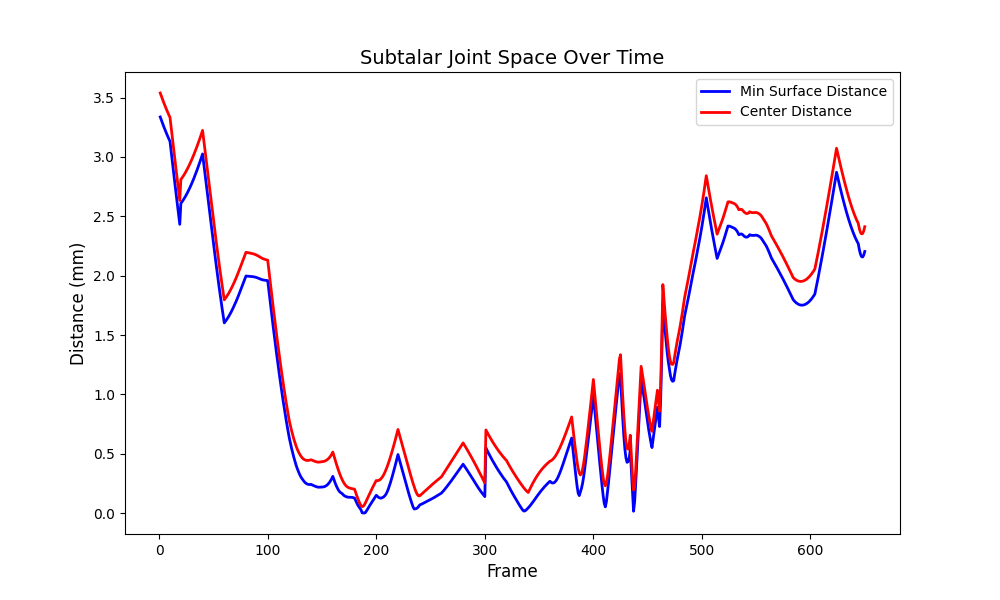
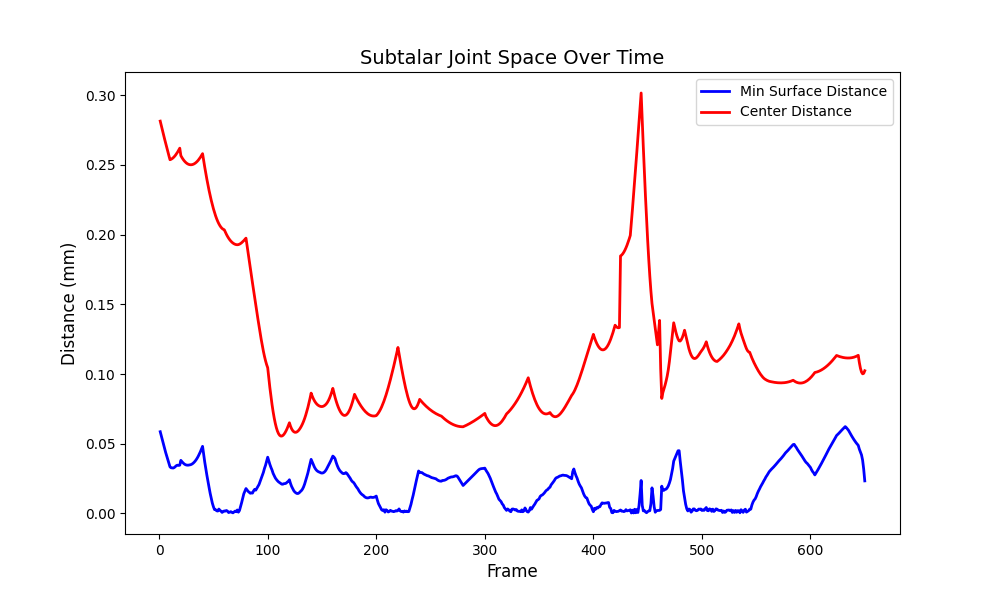
1/10 scale after loading

diff --git a/measure.py b/measure.py
@@ -21,6 +21,9 @@ def load_vertices(file_path):
 astr_vertices = load_vertices('data/astr_EF.obj')
 calc_vertices = load_vertices('data/calc_EF.obj')
 
+astr_vertices = astr_vertices * 0.1
+calc_vertices = calc_vertices * 0.1
+
 print(f"Astragalus Facet Vertices: {astr_vertices.shape}")
 print(f"Calcaneus Facet Vertices: {calc_vertices.shape}")
 
@@ -68,22 +71,20 @@ for frame in range(frame_count):
     astr_vertices_in_contact = len(astr_indices_in_contact)
     astr_contact_pct = (astr_vertices_in_contact / len(astr_real_vertices)) * 100
 
-    # center of contact
-    if astr_vertices_in_contact > 0:
-        coc = np.mean(astr_real_vertices[astr_indices_in_contact], axis=0)
-    else:
-        coc = (np.nan, np.nan, np.nan)
+    # reduce vertices to 50 to represent surface, then turn minimum distances into heatmap
 
-    distances.append({'frame': frame + 1, 'min_distance': min_distance, 'center_distance': center_distance, 'contact_percentage' : astr_contact_pct, 
-                      "center_of_contact_x": coc[0], "center_of_contact_y": coc[1], "center_of_contact_z": coc[2]})
+    # center of contact
+    # if astr_vertices_in_contact > 0:
+    #     coc = np.mean(astr_real_vertices[astr_indices_in_contact], axis=0)
+    # else:
+    #     coc = (np.nan, np.nan, np.nan)
+
+    distances.append({'frame': frame + 1, 'min_distance': min_distance, 'center_distance': center_distance, 'contact_percentage' : astr_contact_pct})
 
 distances_dataframe = pd.DataFrame(distances)
-scaling_factor = 3.5 / 52.0
-distances_dataframe['min_distance'] = distances_dataframe['min_distance'] * scaling_factor
-distances_dataframe['center_distance'] = distances_dataframe['center_distance'] * scaling_factor
-distances_dataframe['center_of_contact_x'] = distances_dataframe['center_of_contact_x'] * scaling_factor
-distances_dataframe['center_of_contact_y'] = distances_dataframe['center_of_contact_y'] * scaling_factor
-distances_dataframe['center_of_contact_z'] = distances_dataframe['center_of_contact_z'] * scaling_factor
+# scaling_factor = 3.5 / 52.0
+# distances_dataframe['min_distance'] = distances_dataframe['min_distance'] * scaling_factor
+# distances_dataframe['center_distance'] = distances_dataframe['center_distance'] * scaling_factor
 print(distances_dataframe)
 
 plt.figure(figsize=(10, 6))
@@ -98,19 +99,19 @@ plt.show()
 plt.figure(figsize=(10, 6))
 plt.fill_between(distances_dataframe['frame'], distances_dataframe['contact_percentage'], color='blue', alpha=0.2)
 plt.plot(distances_dataframe['frame'], distances_dataframe['contact_percentage'], label='Contact Area %', color='blue', linewidth=2)
-plt.title('Subtalar Joint Contact Area Over Time', fontsize=14)
+plt.title(f'Subtalar Joint Contact Area Over Time with Threshold of {threshold} cm', fontsize=14)
 plt.xlabel('Frame', fontsize=12)
 plt.ylabel('Contact Area (%)', fontsize=12)
 plt.legend()
 plt.show()
 
-plt.figure(figsize=(10, 6))
-plt.plot(distances_dataframe['frame'], distances_dataframe['center_of_contact_x'], label='Coc X-axis', color='blue', linewidth=2)
-plt.plot(distances_dataframe['frame'], distances_dataframe['center_of_contact_y'], label='Coc Y-axis', color='red', linewidth=2)
-plt.plot(distances_dataframe['frame'], distances_dataframe['center_of_contact_z'], label='Coc Z-axis', color='yellow', linewidth=2)
-plt.title('Subtalar Joint Center of Contact (Coc) Over Time', fontsize=14)
-plt.xlabel('Frame', fontsize=12)
-plt.ylabel('Position (mm)', fontsize=12)
-plt.legend()
-plt.grid(True, linestyle='--', alpha=0.5)
-plt.show()
+# plt.figure(figsize=(10, 6))
+# plt.plot(distances_dataframe['frame'], distances_dataframe['center_of_contact_x'], label='Coc X-axis', color='blue', linewidth=2)
+# plt.plot(distances_dataframe['frame'], distances_dataframe['center_of_contact_y'], label='Coc Y-axis', color='red', linewidth=2)
+# plt.plot(distances_dataframe['frame'], distances_dataframe['center_of_contact_z'], label='Coc Z-axis', color='yellow', linewidth=2)
+# plt.title('Subtalar Joint Center of Contact (Coc) Over Time', fontsize=14)
+# plt.xlabel('Frame', fontsize=12)
+# plt.ylabel('Position (mm)', fontsize=12)
+# plt.legend()
+# plt.grid(True, linestyle='--', alpha=0.5)
+# plt.show()
